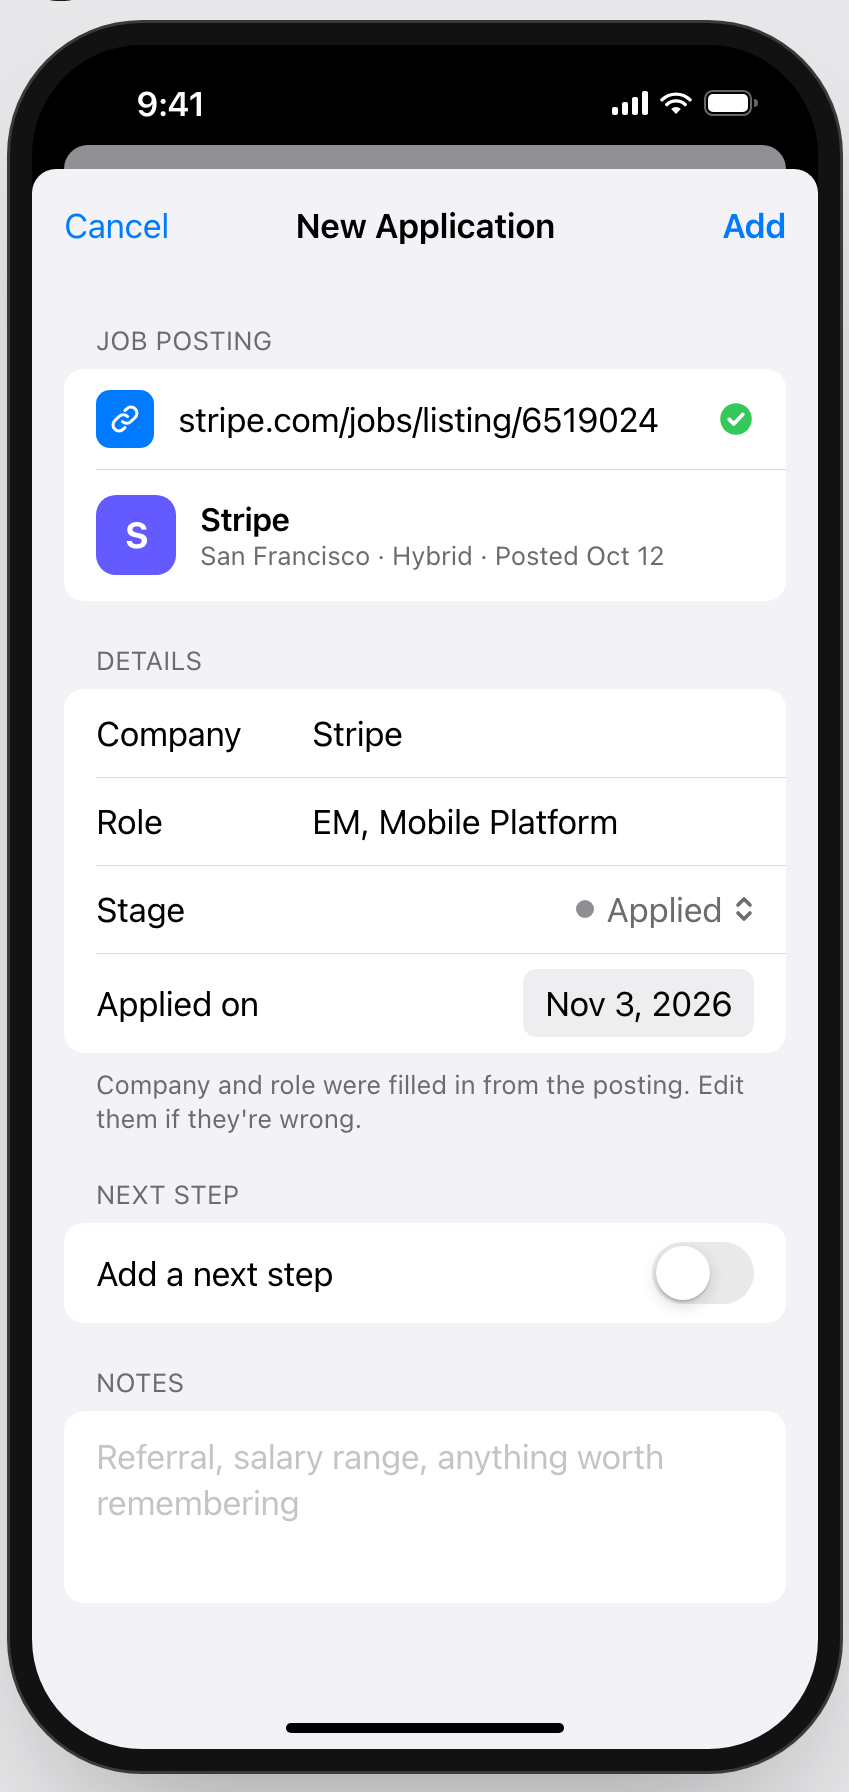
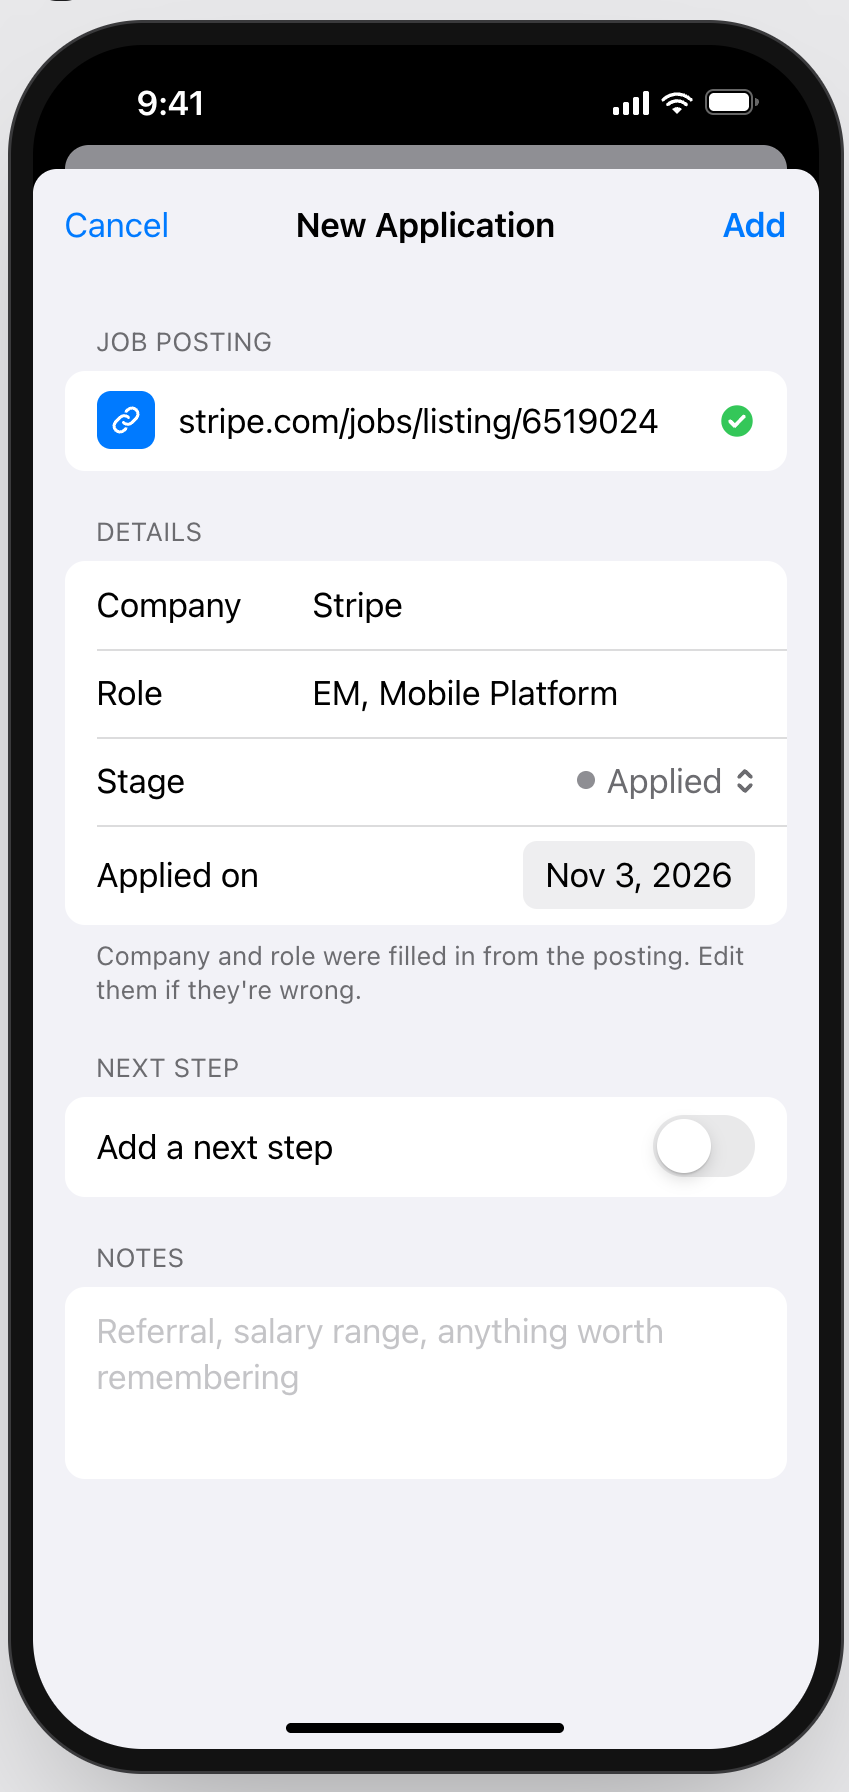
KAN-74: Remove the company preview row under the posting link in A5 and A6
The row under the pasted link (logo, company name, location and posting
date) repeated the company that the Details section shows right below it.
The Found link card is now a single row, like the other link states.

- Remove the preview row from A5 and from the Found state in A6, and drop
  the now-unused .preview CSS rules.
- Regenerate A5.png, A6.png and full@2x.png (headless Chrome, 2x, same
  framing as before). A1-A4 are unchanged.
- ADR 0002: only A2 shows the posting's location and date now.

diff --git a/mockups/job-tracker.html b/mockups/job-tracker.html
@@ -174,9 +174,6 @@
   .a .url { flex: 1; min-width: 0; font-size: 17px; white-space: nowrap; overflow: hidden; text-overflow: ellipsis; }
   .a .toggle.off { background: #E9E9EA; }
   .a .toggle.off::after { right: auto; left: 2px; }
-  .a .preview { height: 66px; }
-  .a .preview .co { font-size: 16px; }
-  .a .preview .role { font-size: 13px; }
   .a .warn { color: #C26A00; }
 
   .a .kb { position: absolute; left: 0; right: 0; bottom: 0; height: 336px; background: #D1D3D9; padding: 8px 3px 0; z-index: 30; }
@@ -532,10 +529,6 @@
               <span class="url">stripe.com/jobs/listing/6519024</span>
               <svg class="i" width="18" height="18" style="color:#34C759"><use href="#check-c"/></svg>
             </div>
-            <div class="row app preview">
-              <div class="logo" style="background:#635BFF">S</div>
-              <div class="grow"><div class="co">Stripe</div><div class="role">San Francisco · Hybrid · Posted Oct 12</div></div>
-            </div>
           </div>
 
           <div class="group-label">Details</div>
@@ -587,10 +580,6 @@
             <div class="icon-sq" style="background:#007AFF"><svg class="i" width="17" height="17"><use href="#link"/></svg></div>
             <span class="url">stripe.com/jobs/listing/6519024</span>
             <svg class="i" width="18" height="18" style="color:#34C759"><use href="#check-c"/></svg>
-          </div>
-          <div class="row app preview">
-            <div class="logo" style="background:#635BFF">S</div>
-            <div class="grow"><div class="co">Stripe</div><div class="role">San Francisco · Hybrid · Posted Oct 12</div></div>
           </div>
         </div>
 

diff --git a/docs/adr/0002-application-model-v2.md b/docs/adr/0002-application-model-v2.md
@@ -51,7 +51,7 @@ file and leaves it untouched.
 - **Next step duration or format** (the "30 min" in the Summary mockup). Not in
   the acceptance criteria; the title carries it ("Onsite loop, 4 rounds").
 - **Saving the posting's location, workplace type, and date** shown under the
-  link in A2 and A5. They come from fetching the posting, a later ticket, and
+  link in A2. They come from fetching the posting, a later ticket, and
   can be added as optional fields then.
 - **`updatedAt`.** No screen shows it.
 
